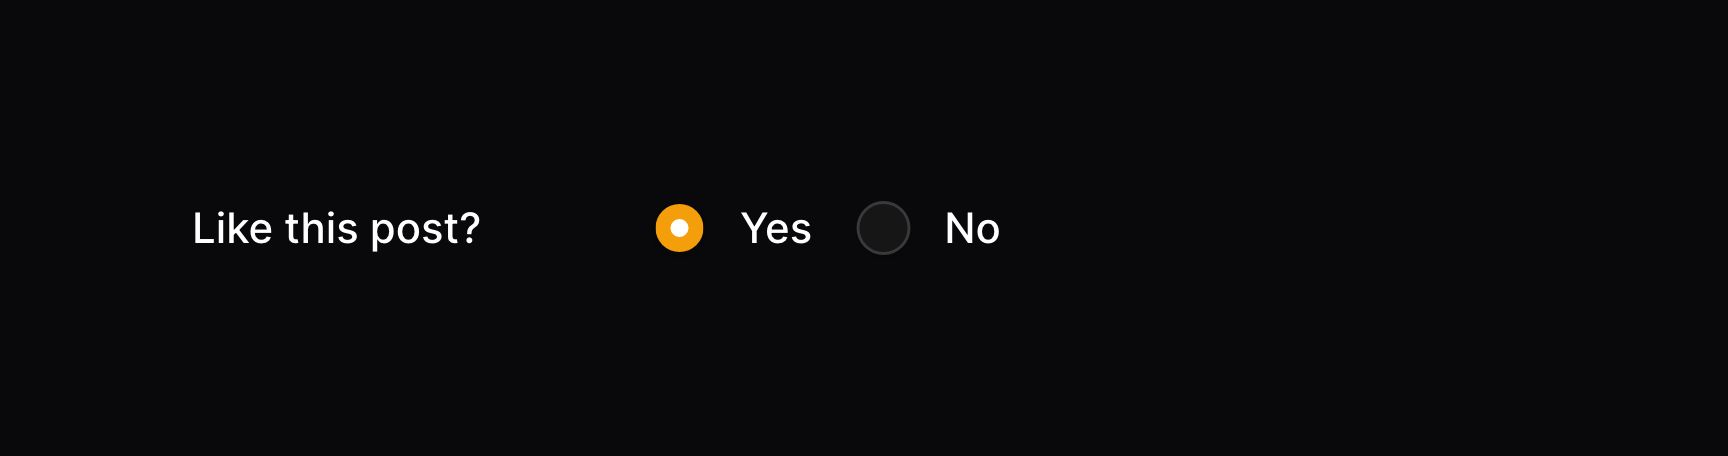
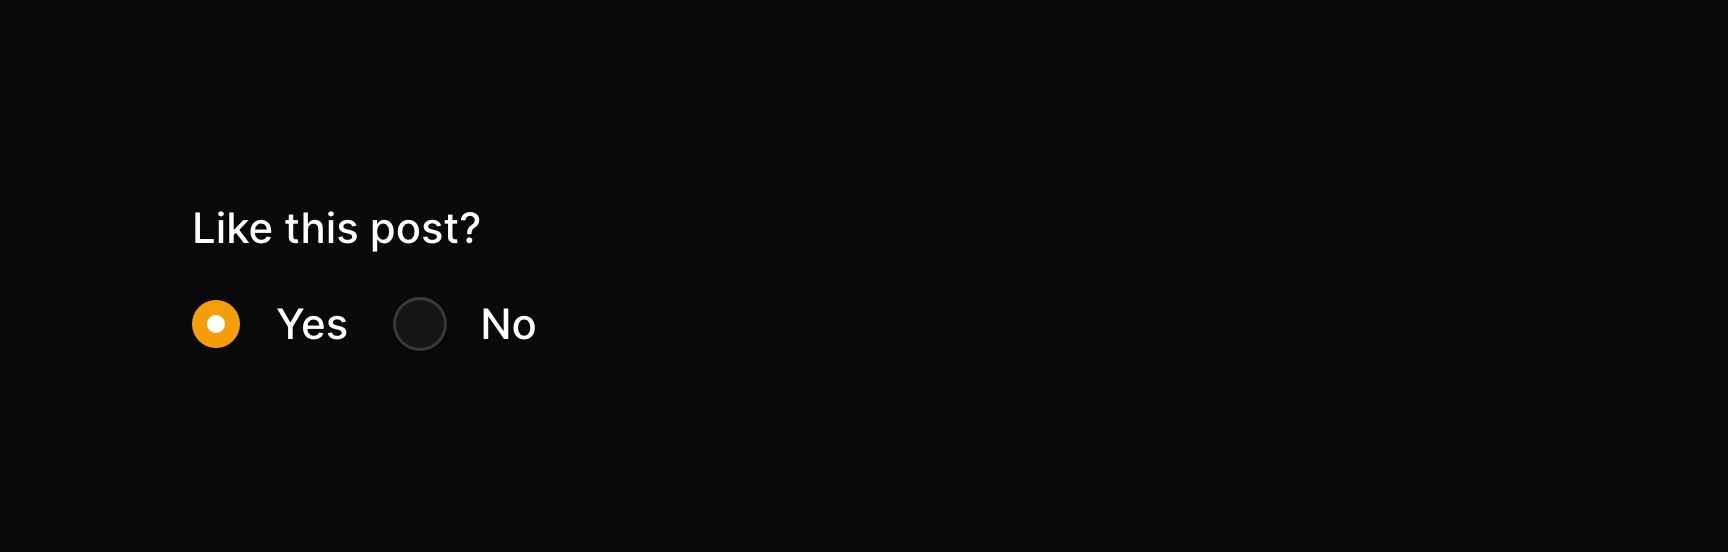
Remove inlineLabel() call from inline() in Radio

diff --git a/docs-assets/screenshots/schema.js b/docs-assets/screenshots/schema.js
@@ -706,15 +706,6 @@ export default {
             deviceScaleFactor: 3,
         },
     },
-    'forms/fields/radio/inline-under-label': {
-        url: 'forms/fields',
-        selector: '#inlineRadioUnderLabel',
-        viewport: {
-            width: 1920,
-            height: 640,
-            deviceScaleFactor: 3,
-        },
-    },
     'forms/fields/radio/disabled-option': {
         url: 'forms/fields',
         selector: '#disabledOptionRadio',

diff --git a/docs-assets/app/app/Livewire/Forms/FieldsDemo.php b/docs-assets/app/app/Livewire/Forms/FieldsDemo.php
@@ -567,19 +567,6 @@ class FieldsDemo extends Component implements HasForms
                             ->default(true),
                     ]),
                 Group::make()
-                    ->id('inlineRadioUnderLabel')
-                    ->extraAttributes([
-                        'class' => 'p-16 max-w-xl',
-                    ])
-                    ->schema([
-                        Radio::make('inlineRadioUnderLabel')
-                            ->label('Like this post?')
-                            ->boolean()
-                            ->inline()
-                            ->inlineLabel(false)
-                            ->default(true),
-                    ]),
-                Group::make()
                     ->id('disabledOptionRadio')
                     ->extraAttributes([
                         'class' => 'p-16 max-w-xl',

diff --git a/packages/forms/src/Components/Radio.php b/packages/forms/src/Components/Radio.php
@@ -39,7 +39,6 @@ class Radio extends Field implements Contracts\CanDisableOptions
     public function inline(bool | Closure $condition = true): static
     {
         $this->isInline = $condition;
-        $this->inlineLabel(fn (Radio $component): ?bool => $component->evaluate($condition) ? true : null);
 
         return $this;
     }

diff --git a/packages/forms/docs/03-fields/07-radio.md b/packages/forms/docs/03-fields/07-radio.md
@@ -49,6 +49,8 @@ Be sure to use the same `key` in the descriptions array as the `key` in the opti
 If you want a simple boolean radio button group, with "Yes" and "No" options, you can use the `boolean()` method:
 
 ```php
+use Filament\Forms\Components\Radio;
+
 Radio::make('feedback')
     ->label('Like this post?')
     ->boolean()
@@ -56,32 +58,20 @@ Radio::make('feedback')
 
 <AutoScreenshot name="forms/fields/radio/boolean" alt="Boolean radio" version="3.x" />
 
-## Positioning the options inline with the label
+## Positioning the options inline with each other
 
-You may wish to display the options `inline()` with the label instead of below it:
+You may wish to display the options `inline()` with each other:
 
 ```php
+use Filament\Forms\Components\Radio;
+
 Radio::make('feedback')
     ->label('Like this post?')
     ->boolean()
     ->inline()
 ```
 
-<AutoScreenshot name="forms/fields/radio/inline" alt="Inline radio" version="3.x" />
-
-## Positioning the options inline with each other but below the label
-
-You may wish to display the options `inline()` with each other but below the label:
-
-```php
-Radio::make('feedback')
-    ->label('Like this post?')
-    ->boolean()
-    ->inline()
-    ->inlineLabel(false)
-```
-
-<AutoScreenshot name="forms/fields/radio/inline-under-label" alt="Inline radio under label" version="3.x" />
+<AutoScreenshot name="forms/fields/radio/inline" alt="Inline toggle buttons" version="3.x" />
 
 ## Disabling specific options
 

diff --git a/packages/forms/docs/03-fields/18-toggle-buttons.md b/packages/forms/docs/03-fields/18-toggle-buttons.md
@@ -73,6 +73,8 @@ If you are using an enum for the options, you can use the [`HasIcon` interface](
 If you want a simple boolean toggle button group, with "Yes" and "No" options, you can use the `boolean()` method:
 
 ```php
+use Filament\Forms\Components\ToggleButtons;
+
 ToggleButtons::make('feedback')
     ->label('Like this post?')
     ->boolean()
@@ -87,6 +89,8 @@ The options will have [colors](#changing-the-color-of-option-buttons) and [icons
 You may wish to display the options `inline()` with each other:
 
 ```php
+use Filament\Forms\Components\ToggleButtons;
+
 ToggleButtons::make('feedback')
     ->label('Like this post?')
     ->boolean()
@@ -100,6 +104,8 @@ ToggleButtons::make('feedback')
 You may wish to group option buttons together so they are more compact, using the `grouped()` method. This also makes them appear horizontally inline with each other:
 
 ```php
+use Filament\Forms\Components\ToggleButtons;
+
 ToggleButtons::make('feedback')
     ->label('Like this post?')
     ->boolean()
